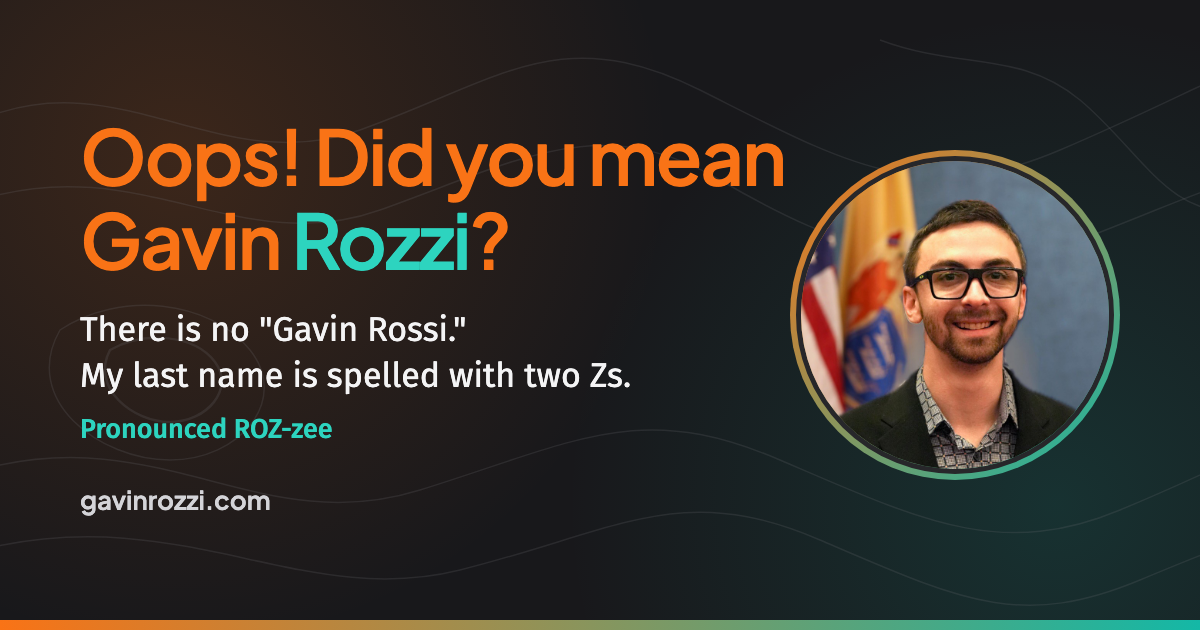
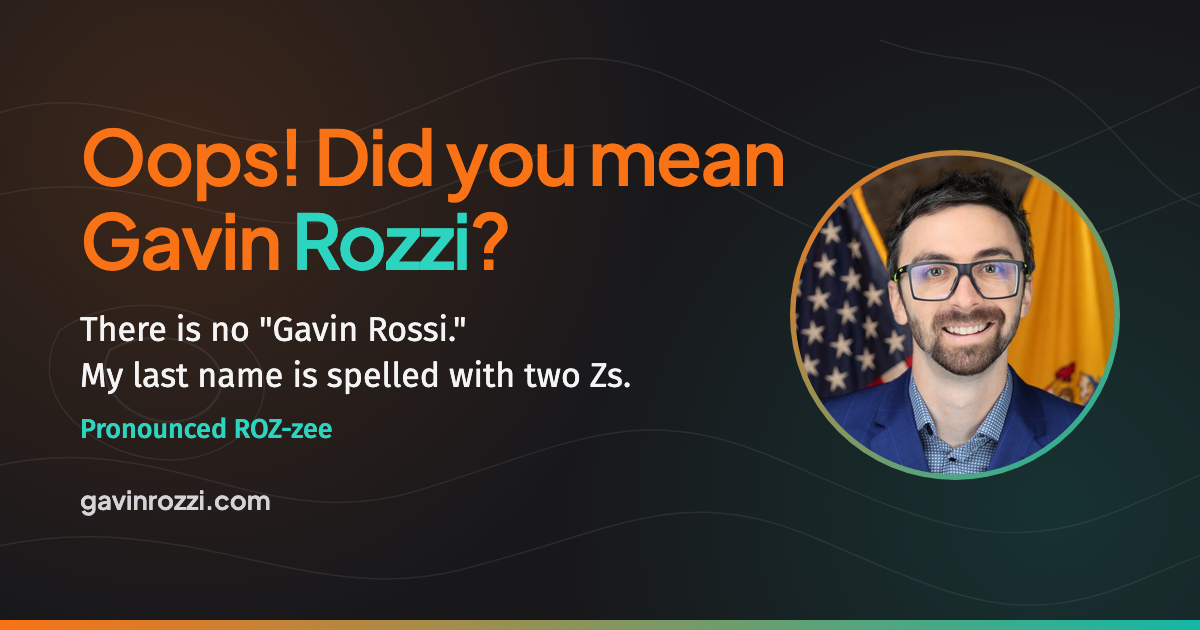
Match gavinrozzi.com's branding updates: new headshot, share image, footer
Replace the headshot with the formal flags portrait the main site now uses,
in the same centre square crop, under a new file name so caches drop the old
photo. The hero frame follows the main site: 360px, a thin 3px gradient ring
and no inner border.

Put the new portrait into the social share image and version its URL in the
og:image and twitter:image tags so platforms refetch it.

Links inside sentences get the main site's quieter underline, which darkens
on hover. The footer carries the main site's new personal-capacity
disclaimer, and "HERF AI model" links to the new HERF portfolio page.

Changed region(s): [[0.6475, 0.2413, 0.9558, 0.754]]

diff --git a/src/index.css b/src/index.css
@@ -199,16 +199,20 @@ h4 {
   border-radius: var(--radius-md);
 }
 
+/* A link inside a sentence. As on the main site, the underline stays quiet
+   until hover so colour is not the only cue (WCAG 1.4.1). */
 .text-link {
   color: var(--color-primary-text);
   text-decoration: underline;
   text-decoration-thickness: 1px;
-  text-underline-offset: 0.15em;
-  transition: color var(--transition-fast);
+  text-decoration-color: color-mix(in srgb, currentColor 40%, transparent);
+  text-underline-offset: 0.2em;
+  transition: color var(--transition-fast), text-decoration-color var(--transition-fast);
 }
 
 .text-link:hover {
   color: var(--color-primary-hover);
+  text-decoration-color: currentColor;
 }
 
 [data-theme='dark'] .text-link:hover {
@@ -433,7 +437,7 @@ h4 {
 
 .hero-main {
   display: grid;
-  grid-template-columns: minmax(0, 1fr) 320px;
+  grid-template-columns: minmax(0, 1fr) 360px;
   grid-template-areas:
     'text image'
     'actions actions';
@@ -540,20 +544,24 @@ h4 {
   text-wrap: pretty;
 }
 
+/* A thin ring keeps the flags behind the portrait in view: the circle
+   already loses the photo's corners, so the stroke should not eat more.
+   Matches the main site's homepage hero. */
 .headshot-frame {
-  width: 320px;
+  width: 360px;
   aspect-ratio: 1;
   border-radius: 50%;
-  padding: 5px;
+  padding: 3px;
   background: var(--gradient-primary);
 }
 
 .headshot {
+  display: block;
   width: 100%;
   height: 100%;
   border-radius: 50%;
   object-fit: cover;
-  border: 4px solid var(--color-card-bg);
+  background-color: var(--color-neutral-100);
 }
 
 @media (max-width: 1100px) {
@@ -582,11 +590,6 @@ h4 {
 
   .headshot-frame {
     width: clamp(120px, 28vw, 200px);
-    padding: 4px;
-  }
-
-  .headshot {
-    border-width: 3px;
   }
 }
 
@@ -1163,6 +1166,17 @@ h4 {
   padding-top: var(--space-3);
   border-top: 1px solid var(--footer-border);
   font-size: var(--text-sm);
+  color: var(--footer-text-secondary);
+}
+
+.footer-bottom p + p {
+  margin-top: var(--space-1);
+}
+
+.footer-disclaimer {
+  max-width: 72ch;
+  font-size: var(--text-xs);
+  line-height: 1.6;
   color: var(--footer-text-secondary);
 }
 

diff --git a/src/components/ProfessionalIntro.tsx b/src/components/ProfessionalIntro.tsx
@@ -16,7 +16,7 @@ const AboutMe: React.FC = () => {
           Hi there! I'm a government innovation and modernization executive and data scientist in New Jersey. I'm the founding Director of the DHCR Data Center at the <Ext href="https://www.nj.gov/dca/">New Jersey Department of Community Affairs</Ext>, where since March 2024 I've built the in-house team that delivers digital services for the State's affordable housing programs, including the <Ext href={`${SITE}/portfolio/nj-eviction-guide/`}>NJ Eviction Guide</Ext>, <Ext href={`${SITE}/portfolio/bringing-veterans-home/`}>Bringing Veterans Home</Ext> and <Ext href={`${SITE}/portfolio/njhomes-atlas/`}>NJHOMES Atlas</Ext>.
         </p>
         <p>
-          In 2026, New Jersey reached <Ext href={`${SITE}/media/route-fifty-veteran-homelessness-2026/`}>Functional Zero for veteran homelessness</Ext>, supported by data infrastructure I designed and oversee, and I accepted <Ext href={`${SITE}/media/nahro-awards-2026/`}>four NAHRO national awards</Ext> on the Department's behalf for NJHOMES, the NJ Eviction Guide and the HERF AI model.
+          In 2026, New Jersey reached <Ext href={`${SITE}/media/route-fifty-veteran-homelessness-2026/`}>Functional Zero for veteran homelessness</Ext>, supported by data infrastructure I designed and oversee, and I accepted <Ext href={`${SITE}/media/nahro-awards-2026/`}>four NAHRO national awards</Ext> on the Department's behalf for NJHOMES, the NJ Eviction Guide and the <Ext href={`${SITE}/portfolio/homelessness-economic-risk-framework/`}>HERF AI model</Ext>.
         </p>
         <p>
           Outside state government, I created <Ext href={`${SITE}/zipcoder/`}>zipcodeR</Ext>, an R package with 124,000+ downloads and 53+ peer-reviewed citations, and from 2017 to 2024 I built and ran <Ext href={`${SITE}/opramachine/`}>OPRAmachine</Ext>, New Jersey's first statewide public records request platform.

diff --git a/index.html b/index.html
@@ -15,7 +15,7 @@
     <meta property="og:title" content="Not Gavin Rossi. It's Gavin Rozzi." />
     <meta property="og:description" content="My last name is spelled with two Zs and pronounced ROZ-zee. Find my work at gavinrozzi.com." />
     <meta property="og:url" content="https://gavinrossi.com/" />
-    <meta property="og:image" content="https://gavinrossi.com/og-image.png" />
+    <meta property="og:image" content="https://gavinrossi.com/og-image.png?v=2026-11" />
     <meta property="og:image:width" content="1200" />
     <meta property="og:image:height" content="630" />
     <meta property="og:image:alt" content="Oops! Did you mean Gavin Rozzi? My last name is spelled with two Zs." />
@@ -24,11 +24,11 @@
     <meta name="twitter:creator" content="@gavroz" />
     <meta name="twitter:title" content="Not Gavin Rossi. It's Gavin Rozzi." />
     <meta name="twitter:description" content="My last name is spelled with two Zs and pronounced ROZ-zee. Find my work at gavinrozzi.com." />
-    <meta name="twitter:image" content="https://gavinrossi.com/og-image.png" />
+    <meta name="twitter:image" content="https://gavinrossi.com/og-image.png?v=2026-11" />
 
     <link rel="icon" type="image/svg+xml" href="/favicon.svg" />
     <link rel="apple-touch-icon" href="/apple-touch-icon.png" />
-    <link rel="preload" href="/images/profile.jpg" as="image" />
+    <link rel="preload" href="/images/gavin-rozzi-headshot.jpg" as="image" fetchpriority="high" />
     <link rel="dns-prefetch" href="https://www.gavinrozzi.com/" />
 
     <!-- Set the theme before first paint (dark unless the visitor chose light). -->

diff --git a/src/components/Footer.tsx b/src/components/Footer.tsx
@@ -51,7 +51,13 @@ const Footer: React.FC = () => {
           </nav>
         </div>
 
-        <p className="footer-bottom">© {new Date().getFullYear()} Gavin Rozzi. All rights reserved.</p>
+        <div className="footer-bottom">
+          <p>© {new Date().getFullYear()} Gavin Rozzi. All rights reserved.</p>
+          {/* Same wording as the main site's footer (grwebsite: src/components/Footer.astro). */}
+          <p className="footer-disclaimer">
+            This personal website is maintained in my individual capacity. All views expressed are my own and do not represent my employer, the Florence Township Board of Education, or any board or organization with which I am affiliated. No state time or resources were used.
+          </p>
+        </div>
       </div>
     </footer>
   );

diff --git a/src/components/Hero.tsx b/src/components/Hero.tsx
@@ -28,11 +28,11 @@ const Hero: React.FC = () => {
           <div className="hero-image">
             <div className="headshot-frame">
               <img
-                src="/images/profile.jpg"
+                src="/images/gavin-rozzi-headshot.jpg"
                 alt="Professional headshot of Gavin Rozzi"
                 className="headshot"
-                width={320}
-                height={320}
+                width={360}
+                height={360}
                 loading="eager"
               />
             </div>
